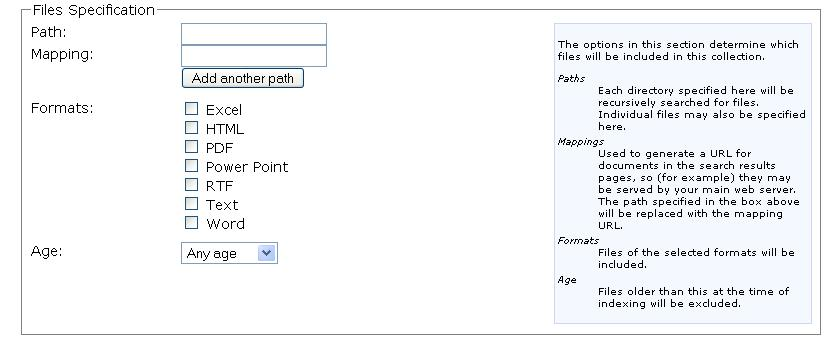
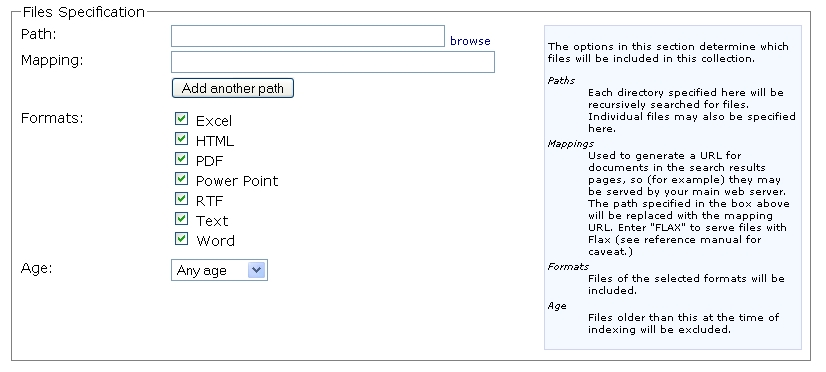
Add help on the filebrowser

diff --git a/w32setup/gettingstarted/GettingStartedOnWindows.htm b/w32setup/gettingstarted/GettingStartedOnWindows.htm
@@ -86,6 +86,14 @@
 
 <p> For now, type 'FLAX' into the Mapping box.<p>
 
+<p>You can also click the 'browse' link, which will give you a simple tree view of the folder structure on the machine that is running Flax:
+
+<p><img src=createcol3.jpg></p>
+
+<p>Click the blue triangle icons to open up a tree, and click the name of a folder to select it as the Path for indexing.</p>
+
+<h3>Further indexing options</h3>
+
 <p>The checkboxes below allow you to decide which file formats will be included in the index. Flax Basic will only read those files that you select. If you leave all the boxes unchecked, Flax Basic will assume that you want to index <i>all</i> of the file types shown. Leave them unchecked for now. </p>
 
 <p>The final setting in this section allows you set the age of files in the index; use this to include only the files that were last modified in the period shown. Leave this setting as 'Any age' for now.</p>
